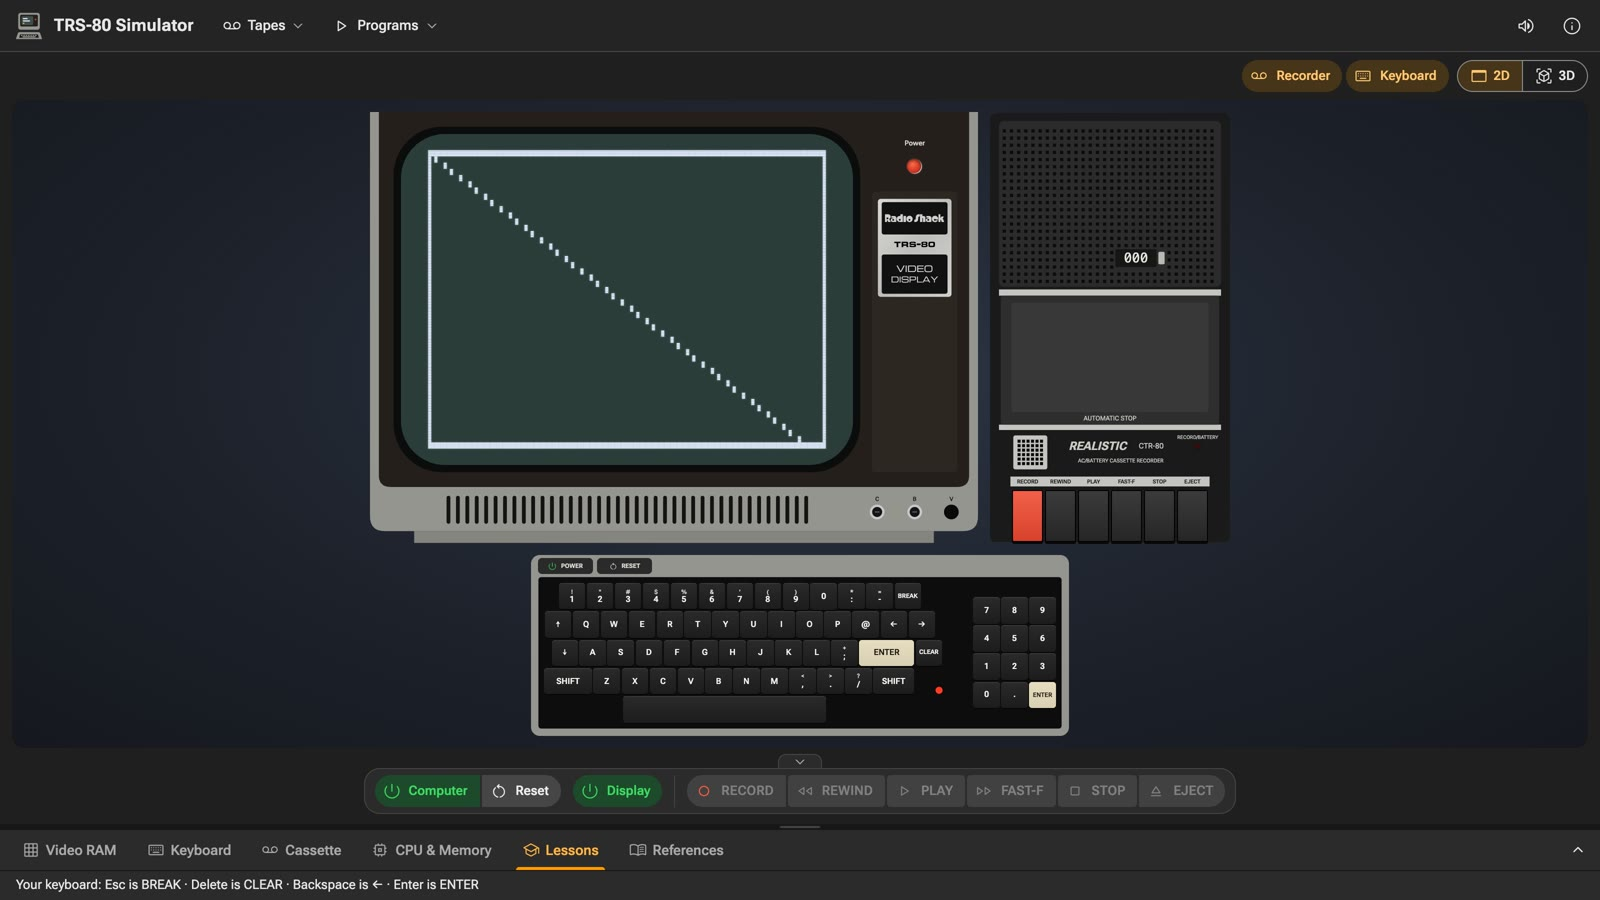
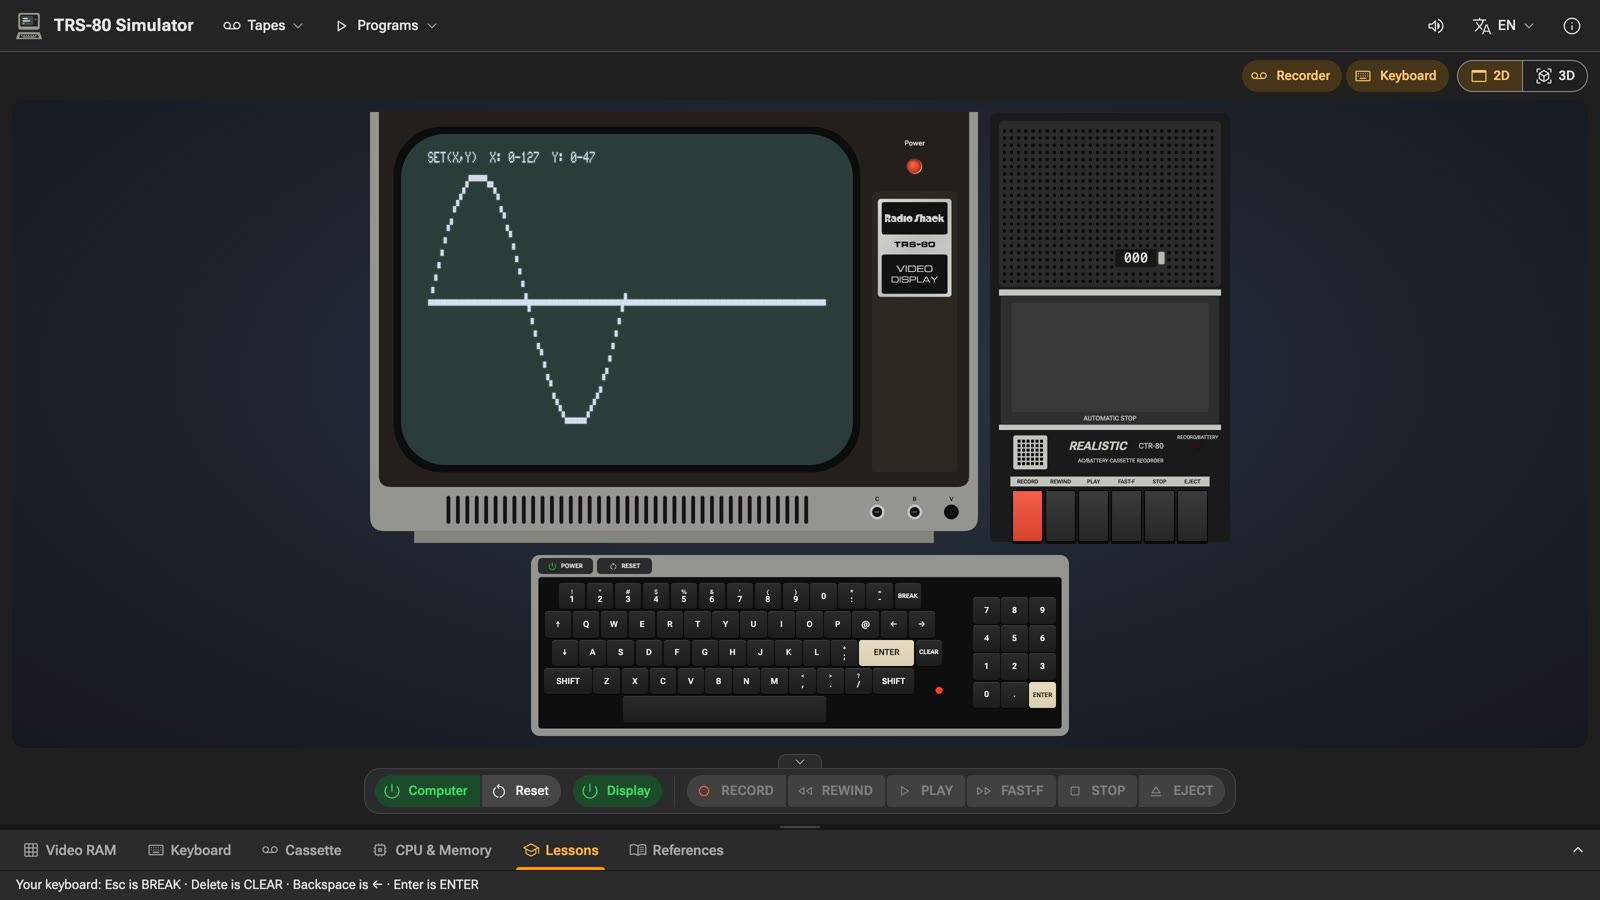
README for v0.0.3: the screenshots retaken, Programs shown; the roadmap: released, then features frozen
The first picture has the Kaleidoscope on the screen; a new one shows
Programs with Games open; the 2D one a sine wave, and Video RAM a graphics
byte picked from the Kaleidoscope, with its blocks. The roadmap records
v0.0.3 released and, from it to v1.0.0, review and fixes only.

diff --git a/README.md b/README.md
@@ -10,18 +10,21 @@ The **TRS-80 Model I** (1977) in 3D in your browser: switch it on, type Level II
 
 > **v0.0.3 is a pre-release.** Everything below works, and the six lessons are complete. The layout may still change before 1.0.0 ([design/roadmap.md](design/roadmap.md)).
 
-![The simulator: the TRS-80 Model I in 3D, its screen showing a frame and a diagonal drawn with SET, the helper strip under it, and the first lesson, Meet the TRS-80, in the dock below](./screenshots/app.jpg)
+![The simulator: the TRS-80 Model I in 3D, its screen showing the Kaleidoscope program's mirrored patterns, the helper strip under it, and the first lesson, Meet the TRS-80, in the dock below](./screenshots/app.jpg)
 
 ## What you can do
 
 <table>
 <tr>
-<td width="50%"><b>Switch to 2D</b><br>The machine's own faces, flat: the screen, the recorder, the keyboard. On a phone, this is where you type.<br><img src="./screenshots/2d.jpg" alt="The 2D view: the Video Display with a frame and a diagonal on its screen, the CTR-80 recorder beside it from above, and the keyboard below"></td>
+<td colspan="2"><b>Run programs of our own</b><br>21 of them, typed in for you on the Model I's keys or loaded from tape: games, utilities and music in the style of 1977–80, and short ones to learn from.<br><img src="./screenshots/programs.jpg" alt="The Programs menu open on its Games section: Moon lander, Worm, Bricks, Meteors and The lighthouse, beside the sections Learn, Utilities and Music, and Find original programs and Open a listing"></td>
+</tr>
+<tr>
+<td width="50%"><b>Switch to 2D</b><br>The machine's own faces, flat: the screen, the recorder, the keyboard. On a phone, this is where you type.<br><img src="./screenshots/2d.jpg" alt="The 2D view: the Video Display with a sine wave drawn with SET on its screen, the CTR-80 recorder beside it, and the keyboard below"></td>
 <td width="50%"><b>Look inside while it runs</b><br>The case turns to glass; the board's chips light up as they work.<br><img src="./screenshots/inside.jpg" alt="The Inside, from below view: the keyboard unit's case as glass, and under it the main board's chips, seen from below"></td>
 </tr>
 <tr>
 <td><b>Take it apart</b><br>With the power off, in the order the real one comes apart.<br><img src="./screenshots/apart.jpg" alt="The computer taken apart in 3D: the case top lifted, the keyboard raised, the main board out in front and turned over"></td>
-<td><b>See the screen as memory</b><br>1,024 bytes, live; pick one to see its bits become dots.<br><img src="./screenshots/vram.jpg" alt="The Video RAM tool: the 64 by 16 grid of bytes, one picked, and beside it the letter H drawn by the character generator, row by row"></td>
+<td><b>See the screen as memory</b><br>1,024 bytes, live; pick one to see its bits become dots.<br><img src="./screenshots/vram.jpg" alt="The Video RAM tool: the 64 by 16 grid of bytes as the Kaleidoscope program fills it, one graphics byte picked, and beside it its bits and the 2 by 3 blocks they light"></td>
 </tr>
 <tr>
 <td><b>Save and load programs on tape</b><br>The tape under the head, as pulses, bits and bytes.<br><img src="./screenshots/tape.jpg" alt="The Cassette tool while a machine-code tape loads: the pulses under the head, the bits they make, and the bytes, each named"></td>

diff --git a/design/roadmap.md b/design/roadmap.md
@@ -7,15 +7,16 @@
 | **v0.0.1** | The first pre-release ([v0.0.1.md](v0.0.1.md)). **Feature frozen.** What remains before it is released: the unit tests checked and brought up to date; a set of browser checks, run by hand before a release and not in CI, as the Altair 8800 simulator's are; a thorough code review; a first, short README with screenshots, taken by a tool, as the 8800 simulator's are |
 | **v0.0.2** | The interface in ten languages, as the Altair 8800 simulator's |
 | **v0.0.3** | Programs worth running, then the lessons rewritten round them ([v0.0.3.md](v0.0.3.md)): sound from the cassette port, a catalogue for learning, games, utilities and music, and where to find the era's own software |
-| **v1.0.0** | Built on v0.0.3: the README in full, with the screenshots for it, as the 8800 simulator's |
+| **v1.0.0** | Built on v0.0.3. **Feature frozen:** a review of the code and the docs, and fixes, only; the README in full, with the screenshots for it, as the 8800 simulator's |
 
 ## Where it stands
 
 - **v0.0.1:** released 2026-11-15 as a pre-release ([the release](https://github.com/wixette/trs-80-simulator/releases/tag/v0.0.1)).
 - **v0.0.2:** released 2026-11-15 as a pre-release ([the release](https://github.com/wixette/trs-80-simulator/releases/tag/v0.0.2)). The page in ten languages (docs/ui-design.md, U11): the language button, the choice from the address, the visitor or the browser, one message file per language, tests that hold each to English's keys, placeholders and code, and a browser check that no English is left on the page and each fits a phone.
-- **v0.0.3:** ready on `dev-v0.0.3`, waiting for the owner's manual check ([v0.0.3.md](v0.0.3.md)). Sound from the cassette lead; 21 programs of our own in four sections, each with its tape and a test that runs it from the tape; Type in faster; Find original programs; Open a listing; each lesson ends with a program; the ten languages for all of it.
+- **v0.0.3:** released 2026-11-15 as a pre-release ([the release](https://github.com/wixette/trs-80-simulator/releases/tag/v0.0.3); [v0.0.3.md](v0.0.3.md)). Checked by the owner in Chrome, Safari, Firefox and Chrome on an iPhone. Sound from the cassette lead; 21 programs of our own in four sections, each with its tape and a test that runs it from the tape; Type in faster; Find original programs; Open a listing; each lesson ends with a program; the ten languages for all of it.
 
 ## Decided
 
+- **From v0.0.3 to v1.0.0, features are frozen** (2026-11-15): the work is reviewing and fixing the code and the docs.
 - **No share link in 1.0.0** (2026-11-15). A link that carries the whole machine cannot be short: the state is the memory, 16 KB and more, with the tape.
 - **The teacher notes stay in English** (2026-11-15): [../lessons/teacher-notes.md](../lessons/teacher-notes.md) is not translated in v0.0.2; the page and the lessons are.
